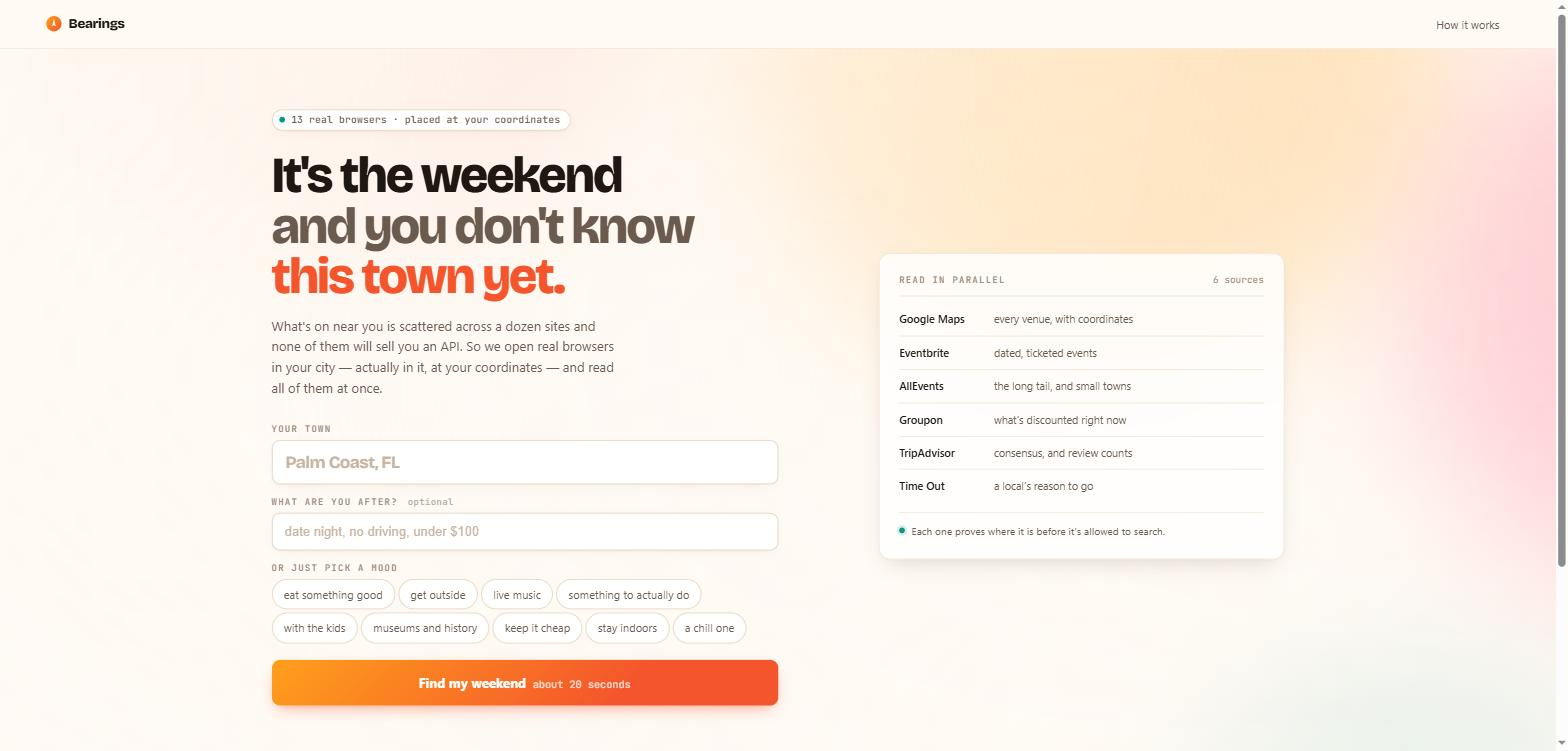
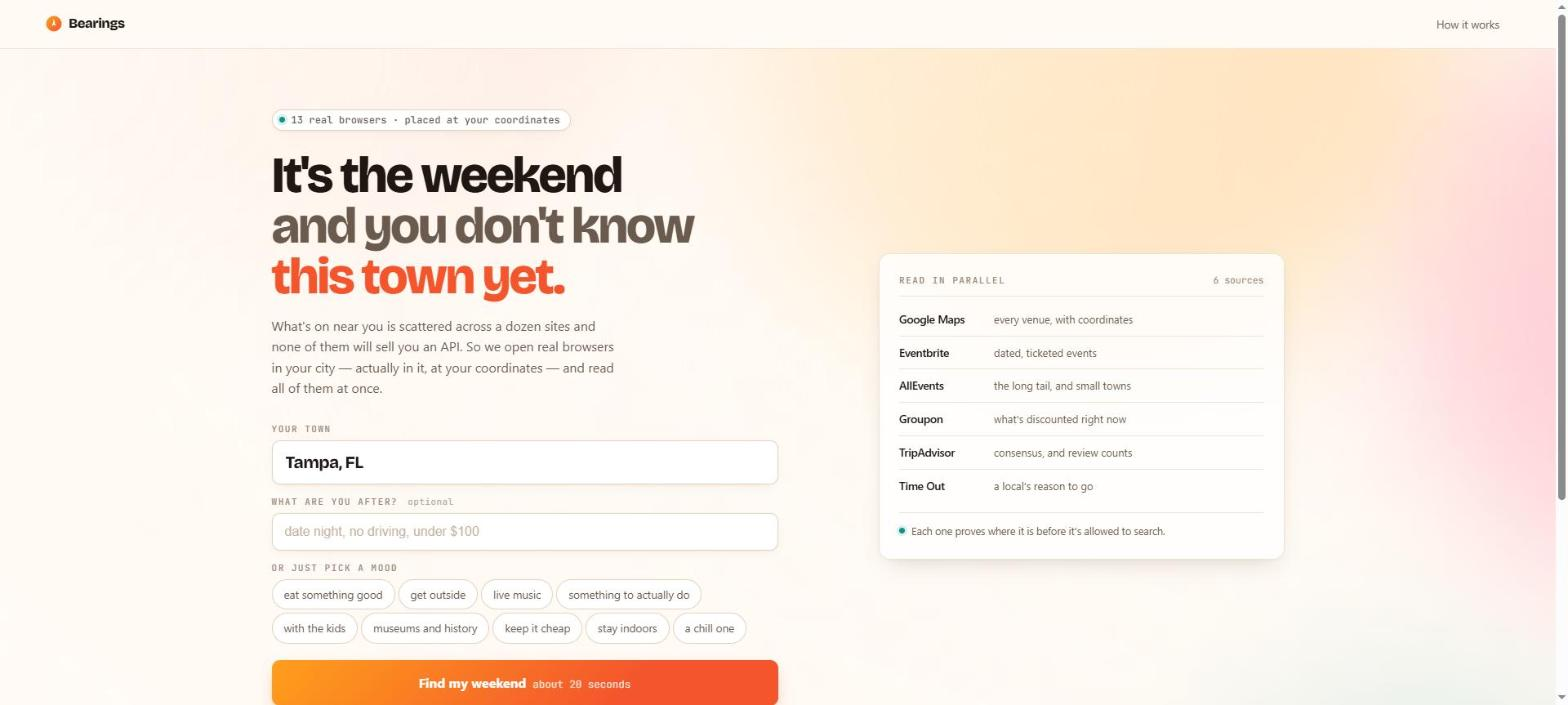
Default the town to Tampa, and prefill it
Prefilled as a value rather than left as a placeholder, so opening the page
and pressing the button is one click — the field is `required`, so a
placeholder meant every demo started by typing an address.

Tampa also leads the suggestion list now.

Claude-Session: https://claude.ai/code/session_019BBHhkpGHkHhAocLbzUrM5

diff --git a/weekendfun/src/web/public/index.html b/weekendfun/src/web/public/index.html
@@ -68,10 +68,12 @@
       <form class="ask" id="planForm" autocomplete="off">
         <label class="field">
           <span class="field-label">Your town</span>
-          <input id="city" name="city" list="cityList" placeholder="Palm Coast, FL" required
+          <!-- Prefilled, not just a placeholder, so the demo is one click. -->
+          <input id="city" name="city" list="cityList" value="Tampa, FL"
+                 placeholder="Tampa, FL" required
                  autocapitalize="words" spellcheck="false">
           <datalist id="cityList">
-            <option value="Palm Coast, FL"><option value="Tampa, FL"><option value="Austin, TX">
+            <option value="Tampa, FL"><option value="Palm Coast, FL"><option value="Austin, TX">
             <option value="Seattle, WA"><option value="Asheville, NC"><option value="Boise, ID">
             <option value="New Orleans, LA"><option value="Portland, OR">
           </datalist>
